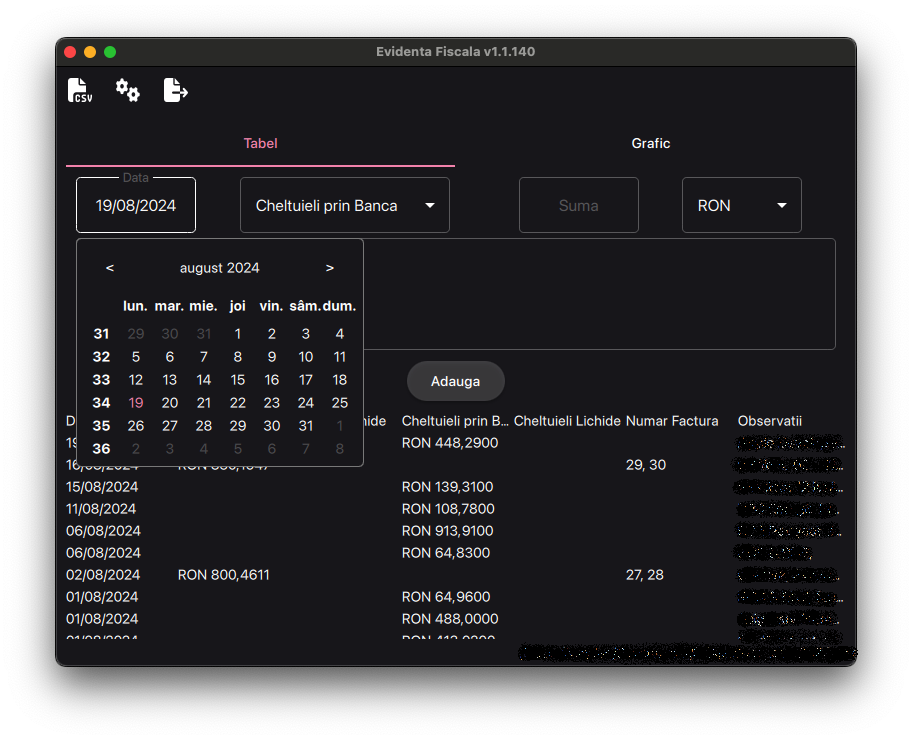
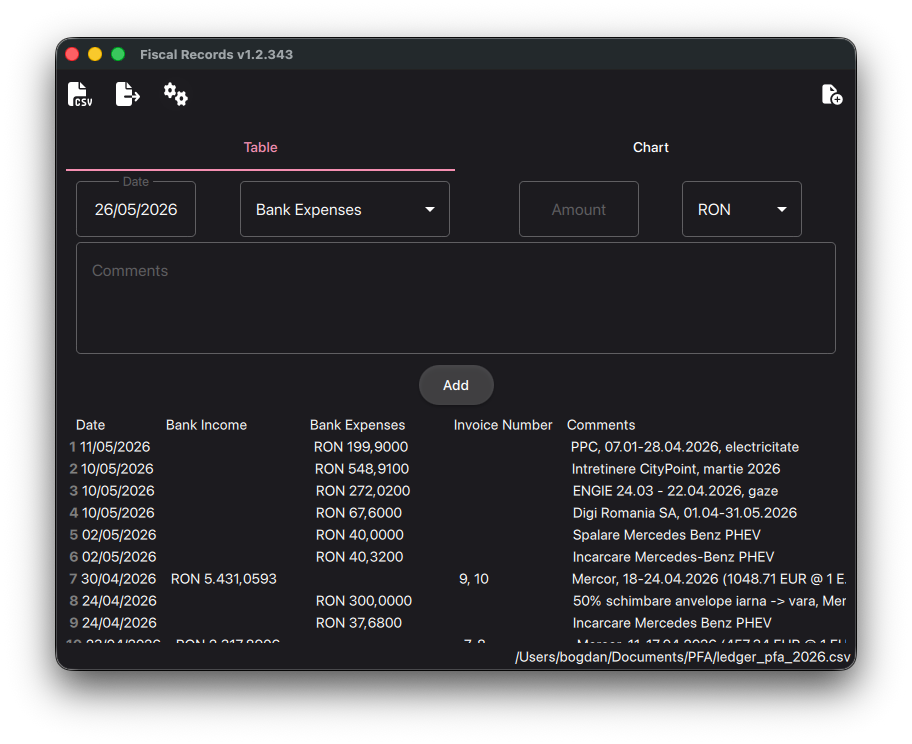
Populate README.md with project overview and update development docs
*   The `README.md` now provides an application description, supported languages, and screenshots for users.
*   The `DEVELOPMENT.md` is updated with current compilation instructions and dependencies (Qt 6.11.1, CMake 3.27, libgit2), exclusively for developers.
*   Add new and update existing screenshots to reflect the current UI.

diff --git a/DEVELOPMENT.md b/DEVELOPMENT.md
@@ -1,23 +1,24 @@
-# FiscalRecords
+# General Instructions
 
-Application used to keep fiscal records in CSV files.
-Supported languages: Romanian, English, French.
+To compile a C++ compiler supporting C++23 standard is needed.
 
-# External dependences:
-
-- Qt v6.7
-
-- cmake v3.18
-
-- qtcsv v1.7 (https://github.com/iamantony/qtcsv.git)
-
-# Target Platforms
+Supported platforms:
 
 - macOS
 
 - Windows
 
 - Linux (planned)
+
+# External dependences:
+
+- Qt v6.11.1
+
+- cmake v3.27
+
+- qtcsv v1.7 (https://github.com/iamantony/qtcsv.git)
+
+- libgit2 v1.9.3 (https://github.com/libgit2/libgit2.git)
 
 # Installer Generation
 
@@ -30,9 +31,3 @@ On macOS:
 On Windows:
 
     build-win-release.bat
-
-# Screenshots
-
-![table](screenshots/table.png?raw=true "Records Table")
-
-![graph](screenshots/graph.png?raw=true "Records Graph")

diff --git a/README.md b/README.md
@@ -1,4 +1,7 @@
-# First Level Heading
+# FiscalRecords
+
+Application used to keep fiscal records in CSV files.
+Supported languages: Romanian, English, French.
 
 Paragraph.
 
@@ -46,6 +49,8 @@ Paragraph.
 Second Level Heading in Alternate Style
 ---------------------------------------
 
-Paragraph.
+# Screenshots
 
-[1]: https://www.qt.io
+![table](screenshots/table.png?raw=true "Records Table")
+
+![graph](screenshots/graph.png?raw=true "Records Graph")